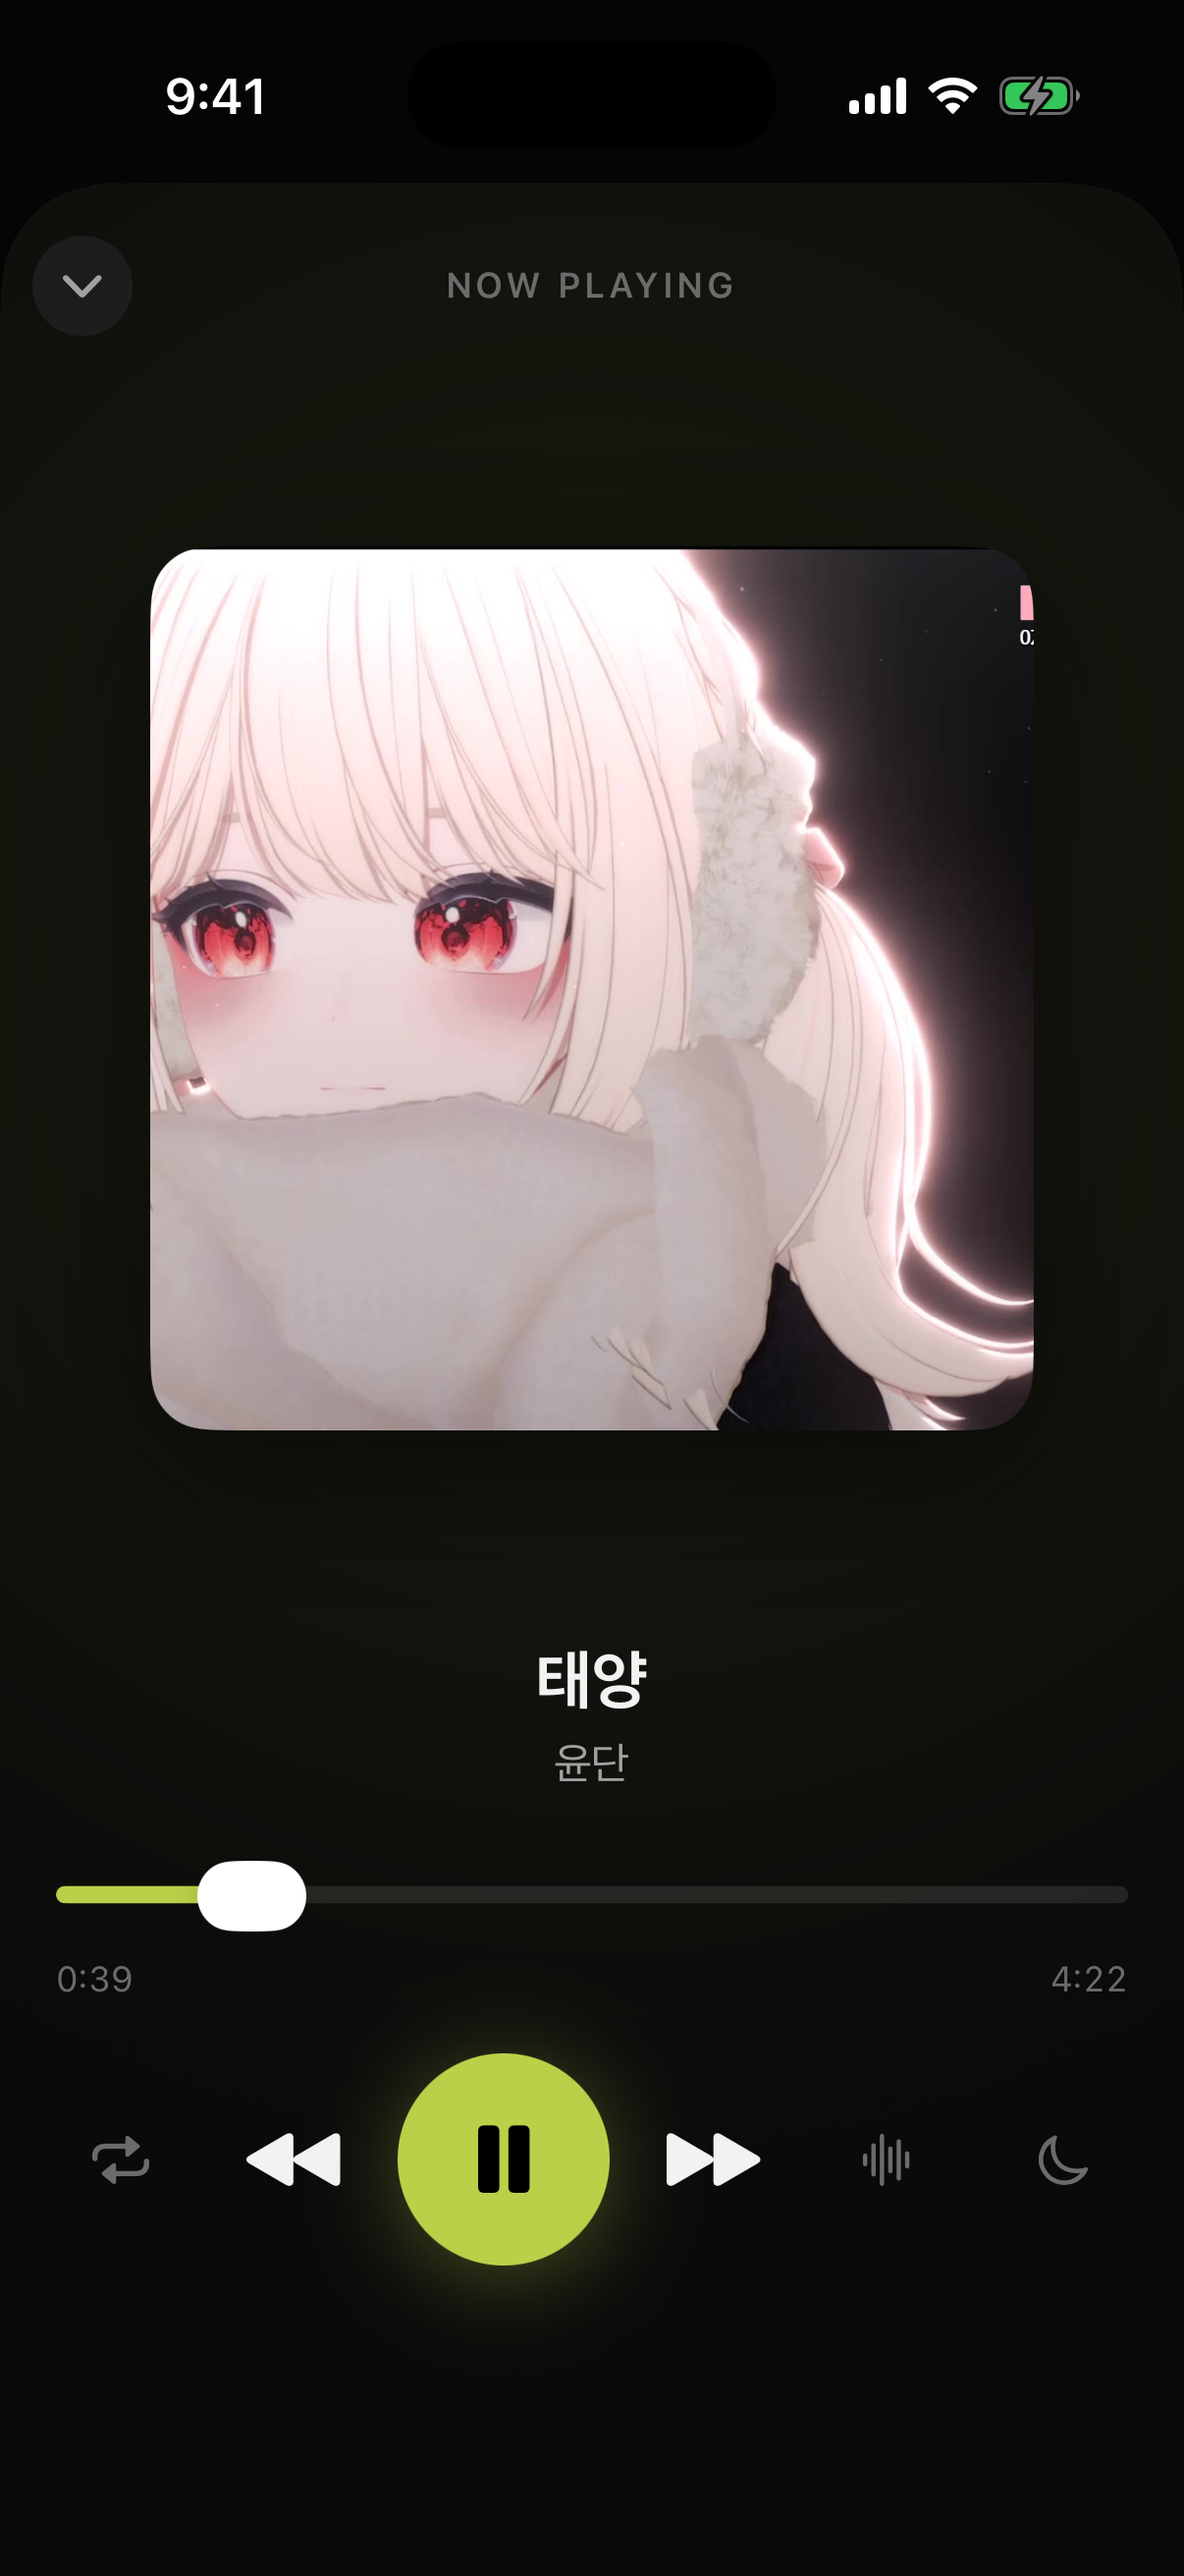
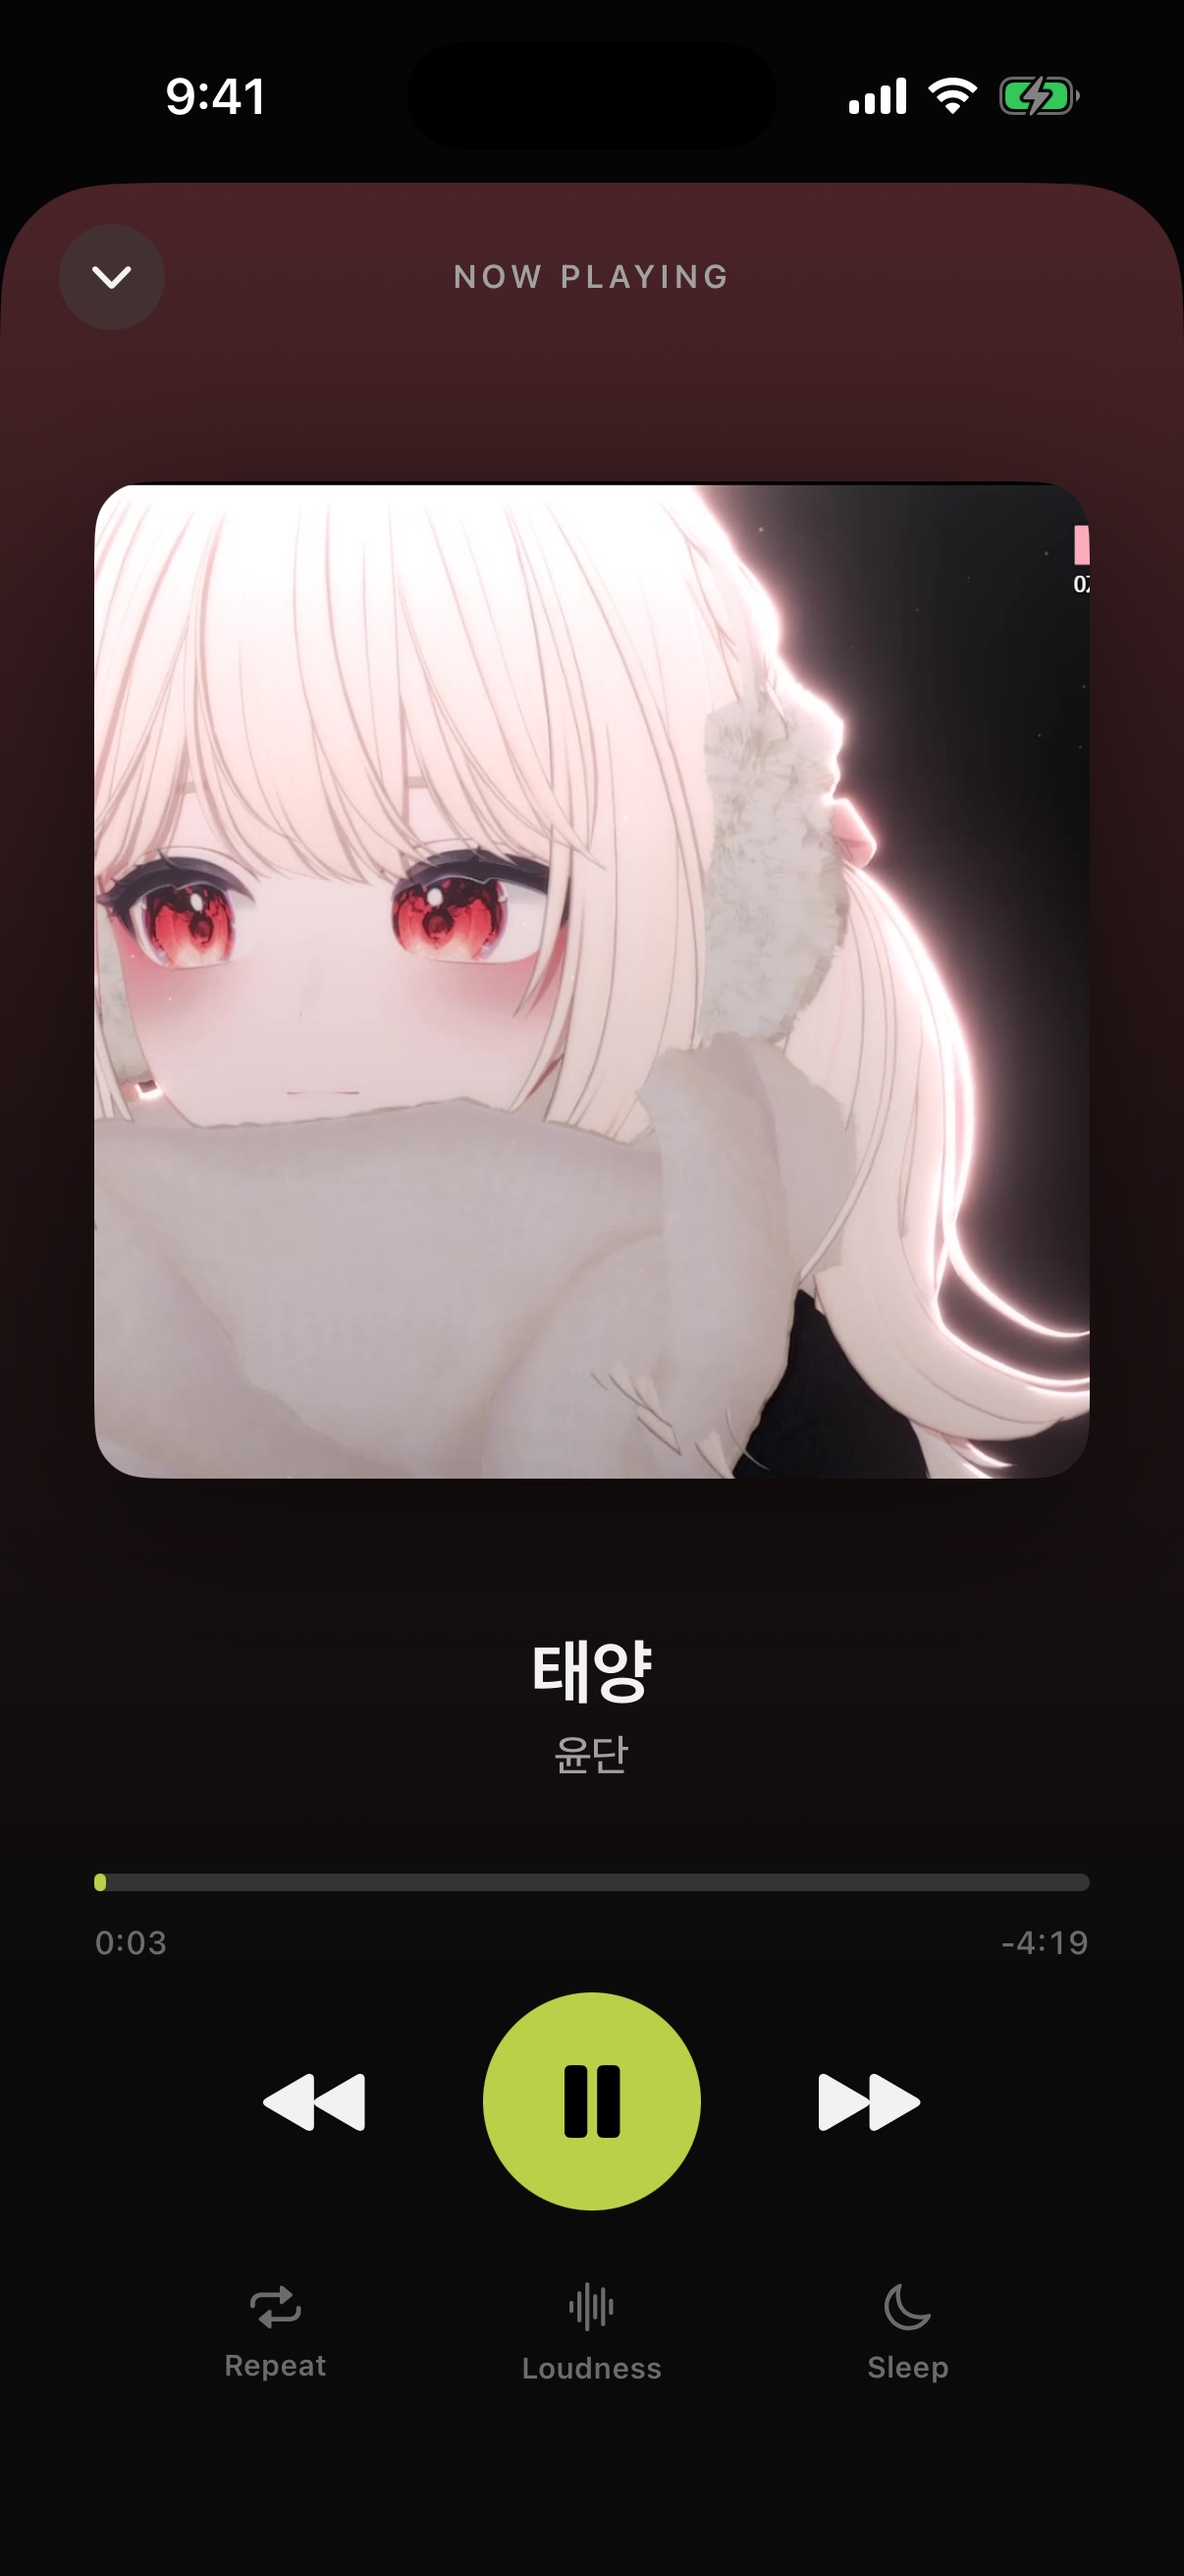
docs: reshoot Now Playing and the sleep timer
The gallery still showed the screen the redesign replaced — flat black, six
controls in one row, the lime confirmation dialog. Both are recaptured from a
running build.

The sleep timer sheet also had its detent cut to fit its content; it was
reserving room for about a hundred points of nothing.

diff --git a/Muscat/Views/Player/NowPlayingView.swift b/Muscat/Views/Player/NowPlayingView.swift
@@ -400,7 +400,7 @@ private struct SleepTimerSheet: View {
         }
         .frame(maxWidth: .infinity)
         .themedScreen()
-        .presentationDetents([.height(current.isActive ? 500 : 440)])
+        .presentationDetents([.height(current.isActive ? 432 : 360)])
         #if os(iOS)
         .presentationBackground(Color.appBackground)
         #endif
